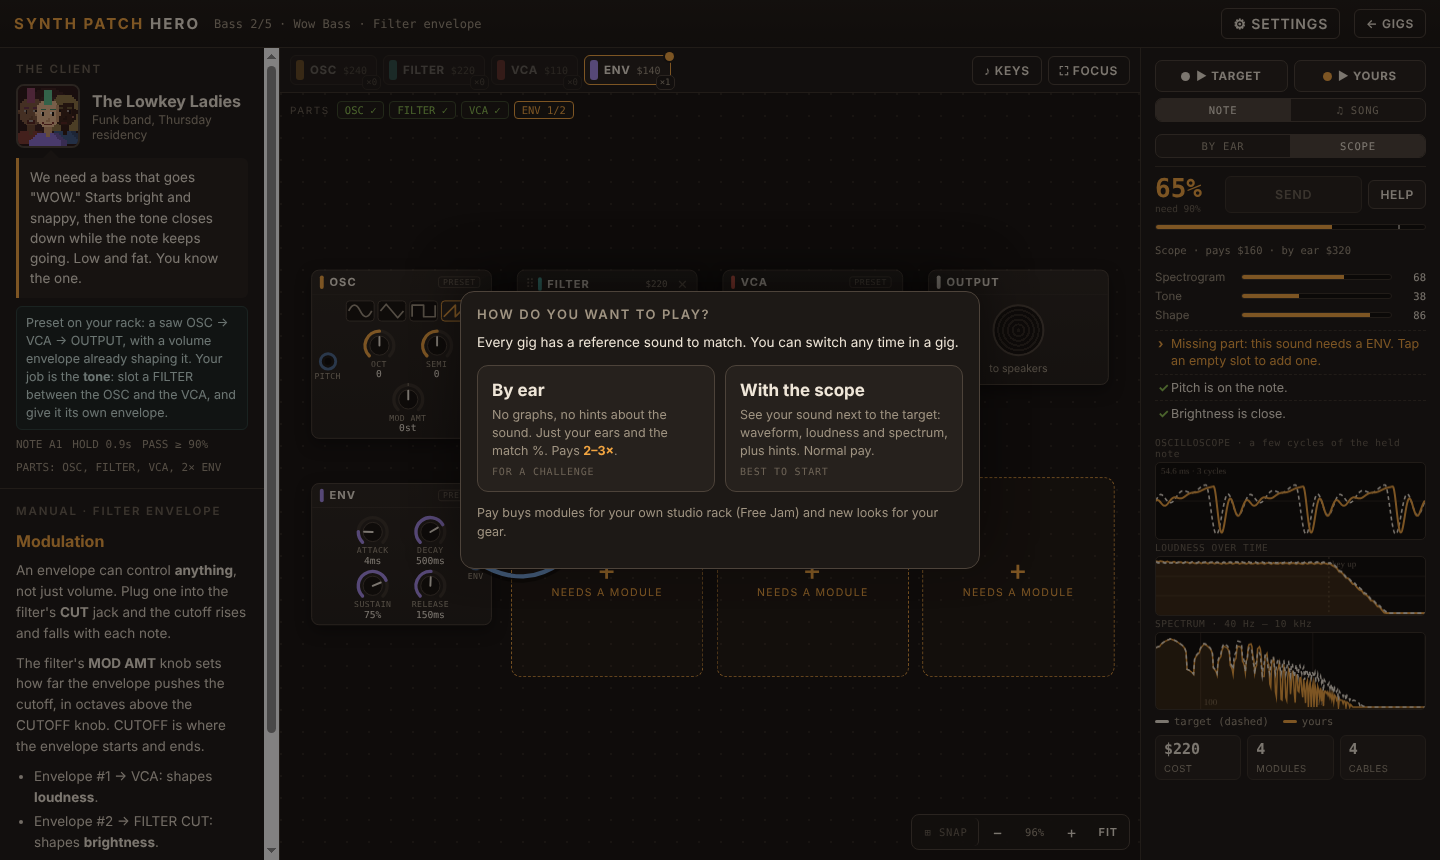
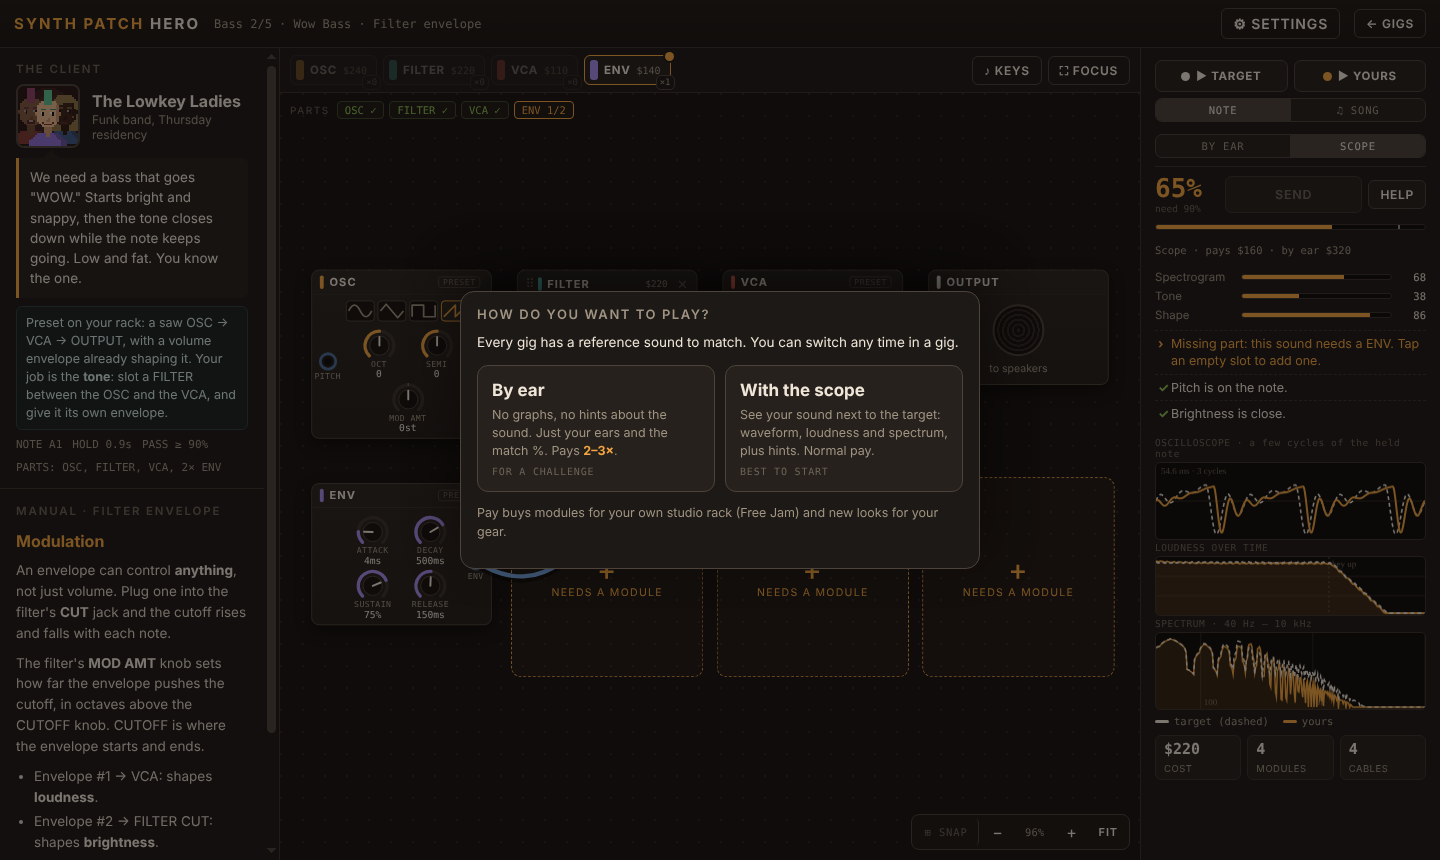
Panel themes re-colour the whole interface, not just the modules
Each theme now sets the app's colour variables (backgrounds, panels, lines,
text tints) plus new ones for the top bar, rack, graph wells and button
presses, which were hard-coded. The browser theme colour and scrollbars
follow along.

Claude-Session: https://claude.ai/code/session_01D5scM1CNbwhd8cCv6p5T59

Changed region(s): [[0.1562, 0.0605, 0.2188, 1.0]]

diff --git a/css/style.css b/css/style.css
@@ -1,5 +1,6 @@
 :root{
   --bg:#13100e; --panel:#1d1916; --panel2:#26211d; --line:#3a322b; --line2:#4d433a;
+  --top1:#1f1a16; --top2:#191512; --well:#0f0c0a; --well2:#16120f; --dot:#2a241f; --boardBg:#161210; --press:#2f2822; --press2:#3a322b;
   --text:#efe6d8; --dim:#a09482; --faint:#6d6356;
   --amber:#f2a541; --teal:#4fb3a9; --red:#e0604f; --violet:#a58be8; --green:#8cc152; --grey:#b5ada3; --cream:#efe6d8;
   --mint:#7fd6a4; --rust:#d9643a; --gold:#d8b04a; --lilac:#c39be8; --cyan:#5fc7c0; --coral:#ef7f7a; --olive:#a6b85c;
@@ -8,11 +9,11 @@
   --mono:'IBM Plex Mono',ui-monospace,monospace; --head:'Chakra Petch',system-ui,sans-serif; --sans:'IBM Plex Sans',system-ui,sans-serif;
   --topH:48px;
 }
-*{box-sizing:border-box}
+*{box-sizing:border-box;scrollbar-color:var(--line2) transparent}
 html,body{margin:0;height:100%;background:var(--bg);color:var(--text);font-family:var(--sans);font-size:14px;overscroll-behavior:none}
 button{font:inherit;color:inherit;cursor:pointer;touch-action:manipulation}
 [hidden]{display:none!important}
-.topbar{height:var(--topH);display:flex;align-items:center;gap:14px;padding:0 14px;border-bottom:1px solid var(--line);background:linear-gradient(#1f1a16,#191512)}
+.topbar{height:var(--topH);display:flex;align-items:center;gap:14px;padding:0 14px;border-bottom:1px solid var(--line);background:linear-gradient(var(--top1),var(--top2))}
 .brand{font-family:var(--head);font-weight:700;letter-spacing:.14em;font-size:15px;color:var(--amber);white-space:nowrap}
 .brand span{color:var(--text)}
 .crumbs{color:var(--dim);font-family:var(--mono);font-size:12px;flex:1;white-space:nowrap;overflow:hidden;text-overflow:ellipsis}
@@ -41,7 +42,7 @@ button{font:inherit;color:inherit;cursor:pointer;touch-action:manipulation}
 .gigWrap{position:relative;display:flex;transition:transform .12s}
 .gigWrap:hover{transform:translateY(-2px)}
 .gigWrap>.gig{flex:1;min-width:0;padding-right:58px}
-.gigPv{position:absolute;top:10px;right:10px;width:38px;height:38px;border-radius:50%;border:1px solid var(--line2);background:#16120f;color:var(--amber);display:flex;align-items:center;justify-content:center;font-size:13px;cursor:pointer;z-index:1;padding:0}
+.gigPv{position:absolute;top:10px;right:10px;width:38px;height:38px;border-radius:50%;border:1px solid var(--line2);background:var(--well2);color:var(--amber);display:flex;align-items:center;justify-content:center;font-size:13px;cursor:pointer;z-index:1;padding:0}
 .gigPv:hover{border-color:var(--amber)}
 .gigPv.lit{background:var(--amber);color:#1a130b;border-color:var(--amber)}
 .gigPv .pvIcon{pointer-events:none;line-height:1}
@@ -140,7 +141,7 @@ button{font:inherit;color:inherit;cursor:pointer;touch-action:manipulation}
 @keyframes blink{50%{opacity:.35}}
 
 .viewport{position:relative;flex:1;min-height:0;overflow:hidden;touch-action:none;cursor:grab;
-  background:radial-gradient(circle at 1px 1px,#2a241f 1px,transparent 1.5px) 0 0/22px 22px,#161210}
+  background:radial-gradient(circle at 1px 1px,var(--dot) 1px,transparent 1.5px) 0 0/22px 22px,var(--boardBg)}
 .viewport.panning{cursor:grabbing}
 #stage{position:absolute;left:0;top:0;transform-origin:0 0}
 #cables{position:absolute;left:0;top:0;width:100%;height:100%;pointer-events:none;z-index:3;overflow:visible}
@@ -199,8 +200,8 @@ button{font:inherit;color:inherit;cursor:pointer;touch-action:manipulation}
 .knob .kl{font-family:var(--mono);font-size:8.5px;color:var(--dim);letter-spacing:.05em;margin-top:-3px}
 .knob .kv{font-family:var(--mono);font-size:10px;color:var(--text);white-space:nowrap}
 .choice{width:100%;display:flex;justify-content:center;gap:3px;padding:0 3px 4px}
-.choice button{flex:1;max-width:32px;height:22px;background:#16120f;border:1px solid var(--line2);border-radius:4px;padding:0;display:flex;align-items:center;justify-content:center;font-family:var(--mono);font-size:9.5px;color:var(--dim)}
-.choice button.on{border-color:var(--sel,var(--amber));color:var(--text);background:#2f2822}
+.choice button{flex:1;max-width:32px;height:22px;background:var(--well2);border:1px solid var(--line2);border-radius:4px;padding:0;display:flex;align-items:center;justify-content:center;font-family:var(--mono);font-size:9.5px;color:var(--dim)}
+.choice button.on{border-color:var(--sel,var(--amber));color:var(--text);background:var(--press)}
 .choice button svg{display:block}
 .choice button.on svg path{stroke:var(--sel,var(--amber))}
 .outBox{padding:4px;text-align:center;color:var(--dim);font-size:11px;line-height:1.3}
@@ -219,7 +220,7 @@ button{font:inherit;color:inherit;cursor:pointer;touch-action:manipulation}
 .pctBox b{font-family:var(--mono);font-weight:600;font-size:26px;color:var(--amber);font-variant-numeric:tabular-nums}
 .pctBox b.ok{color:var(--good)}
 .pctBox small{display:block;font-family:var(--mono);font-size:9.5px;color:var(--faint);margin-top:3px}
-.compare .bar{position:relative;height:6px;background:#0f0c0a;border:1px solid var(--line);border-radius:4px;overflow:hidden;flex:none}
+.compare .bar{position:relative;height:6px;background:var(--well);border:1px solid var(--line);border-radius:4px;overflow:hidden;flex:none}
 .compare .bar i{position:absolute;left:0;top:0;bottom:0;background:var(--amber);transition:width .2s}
 .compare .bar .thr{position:absolute;top:-2px;bottom:-2px;width:2px;background:var(--text);opacity:.6}
 .cmpBody{display:flex;flex-direction:column;gap:8px}
@@ -235,7 +236,7 @@ button{font:inherit;color:inherit;cursor:pointer;touch-action:manipulation}
 .plotTabs{display:none}
 .plotBox{margin-top:2px}
 .plotLbl{font-family:var(--mono);font-size:9.5px;color:var(--faint);margin:0 0 3px;letter-spacing:.06em}
-.plot{width:100%;display:block;background:#0f0c0a;border:1px solid var(--line);border-radius:5px}
+.plot{width:100%;display:block;background:var(--well);border:1px solid var(--line);border-radius:5px}
 .legend{display:flex;gap:14px;font-size:10.5px;color:var(--dim);margin-top:5px;font-family:var(--mono)}
 .legend i{display:inline-block;width:14px;height:3px;vertical-align:middle;margin-right:5px;border-radius:2px}
 .stats{display:grid;grid-template-columns:repeat(3,1fr);gap:6px}
@@ -283,13 +284,13 @@ button{font:inherit;color:inherit;cursor:pointer;touch-action:manipulation}
 .shTitle{flex:1;font-family:var(--head);font-weight:600;letter-spacing:.12em;font-size:13px;color:var(--dim)}
 .shVal{font-family:var(--mono);font-weight:600;font-size:38px;text-align:center;margin:6px 0 8px;color:var(--sel,var(--amber))}
 .shRange{width:100%;-webkit-appearance:none;appearance:none;height:44px;background:transparent;margin:0;touch-action:pan-x}
-.shRange::-webkit-slider-runnable-track{height:10px;border-radius:5px;background:#0f0c0a;border:1px solid var(--line2)}
+.shRange::-webkit-slider-runnable-track{height:10px;border-radius:5px;background:var(--well);border:1px solid var(--line2)}
 .shRange::-webkit-slider-thumb{-webkit-appearance:none;width:34px;height:34px;border-radius:50%;background:var(--sel,var(--amber));margin-top:-13px;border:4px solid #16120f;box-shadow:0 0 0 1px var(--line2)}
-.shRange::-moz-range-track{height:10px;border-radius:5px;background:#0f0c0a;border:1px solid var(--line2)}
+.shRange::-moz-range-track{height:10px;border-radius:5px;background:var(--well);border:1px solid var(--line2)}
 .shRange::-moz-range-thumb{width:28px;height:28px;border-radius:50%;background:var(--sel,var(--amber));border:4px solid #16120f}
 .shBtns{display:grid;grid-template-columns:repeat(4,1fr);gap:8px;margin:10px 0 8px}
 .shBtns button,.shRow button{height:48px;border-radius:10px;border:1px solid var(--line2);background:var(--panel2);font-family:var(--mono);font-size:16px;font-weight:600}
-.shBtns button:active,.shRow button:active{background:#3a322b}
+.shBtns button:active,.shRow button:active{background:var(--press2)}
 .shRow{display:grid;grid-template-columns:1fr 1fr;gap:8px}
 #modal{position:fixed;inset:0;background:rgba(8,6,5,.72);display:flex;align-items:center;justify-content:center;z-index:50;padding:16px}
 .modalCard{width:min(520px,100%);background:var(--panel);border:1px solid var(--line2);border-radius:12px;padding:22px;box-shadow:0 30px 80px rgba(0,0,0,.6)}
@@ -505,14 +506,14 @@ body.focus .work{flex:1}
 .hapSw{position:absolute;width:1px;height:1px;opacity:.02;margin:0;pointer-events:none;overflow:hidden}
 label.btn,label.shBtn{position:relative;display:inline-flex;align-items:center;justify-content:center;cursor:pointer;-webkit-user-select:none;user-select:none}
 .shBtns label.shBtn{height:48px;border-radius:10px;border:1px solid var(--line2);background:var(--panel2);font-family:var(--mono);font-size:16px;font-weight:600}
-.shBtns label.shBtn:active{background:#3a322b}
+.shBtns label.shBtn:active{background:var(--press2)}
 /* iPhone tap targets are <label role=button>; keep them looking like the buttons they replace */
 label[role=button]{cursor:pointer;-webkit-user-select:none;user-select:none;-webkit-tap-highlight-color:transparent}
 label.btn{display:inline-flex;align-items:center;justify-content:center}
 label.btn[aria-disabled="true"],label.palBtn[aria-disabled="true"],label.gig[aria-disabled="true"]{opacity:.42;cursor:not-allowed}
 .btn.primary[aria-disabled="true"]{background:var(--panel2);color:var(--faint);border-color:var(--line);opacity:1}
-.choice label[role=button]{flex:1;max-width:32px;height:22px;background:#16120f;border:1px solid var(--line2);border-radius:4px;display:flex;align-items:center;justify-content:center;font-family:var(--mono);font-size:9.5px;color:var(--dim)}
-.choice label[role=button].on{border-color:var(--sel,var(--amber));color:var(--text);background:#2f2822}
+.choice label[role=button]{flex:1;max-width:32px;height:22px;background:var(--well2);border:1px solid var(--line2);border-radius:4px;display:flex;align-items:center;justify-content:center;font-family:var(--mono);font-size:9.5px;color:var(--dim)}
+.choice label[role=button].on{border-color:var(--sel,var(--amber));color:var(--text);background:var(--press)}
 .choice label[role=button].on svg path{stroke:var(--sel,var(--amber))}
 .knob .kc{display:contents}
 .knob .kl,.knob .kv{display:block}
@@ -774,6 +775,12 @@ body.focus .takeGig{display:block}
 .studioCard .dataNote{margin-top:8px}
 .cheatBox{display:flex;gap:6px;margin:0 0 8px;flex:none} .cheatBox input{flex:1;min-width:0;background:var(--panel2);border:1px solid var(--line2);border-radius:8px;color:var(--text);font-family:var(--mono);font-size:16px;padding:7px 10px}
 @media (max-width:760px){ .studioCard{height:88dvh} .studioGrid{grid-template-columns:repeat(2,1fr)} }
+/* panel themes re-colour the whole interface (surfaces, lines, text tints), and re-skin every module's faceplate below */
+body[data-theme=midnight]{--bg:#0f1114;--panel:#171a1f;--panel2:#1e2228;--line:#2b313a;--line2:#3a4250;--text:#e6ebf2;--dim:#97a2b2;--faint:#626d7b;--top1:#1a1d23;--top2:#14171b;--well:#0b0d10;--well2:#111418;--dot:#232a34;--boardBg:#12151a;--press:#262c35;--press2:#2f3742;background:var(--bg)}
+body[data-theme=walnut]{--bg:#150f0b;--panel:#20170f;--panel2:#2a1f15;--line:#463424;--line2:#5c4430;--text:#f1e4d0;--dim:#b39c80;--faint:#7c6751;--top1:#2e2015;--top2:#22180f;--well:#0f0a07;--well2:#18110b;--dot:#36271b;--boardBg:#1a120c;--press:#3a2a1c;--press2:#4a3524;background:var(--bg)}
+body[data-theme=oxide]{--bg:#111310;--panel:#191c16;--panel2:#20241c;--line:#333a2a;--line2:#454e39;--text:#e8ead8;--dim:#a0a58c;--faint:#6a715b;--top1:#1e2219;--top2:#171a14;--well:#0c0e0a;--well2:#12150f;--dot:#272c20;--boardBg:#141711;--press:#2a3022;--press2:#343c2b;background:var(--bg)}
+body[data-theme=neon]{--bg:#120c18;--panel:#1a1222;--panel2:#22182c;--line:#3a2848;--line2:#4f3662;--text:#f3e8f6;--dim:#b69dc3;--faint:#7c668a;--top1:#23172e;--top2:#1a1122;--well:#0c0711;--well2:#140d1a;--dot:#2e2040;--boardBg:#160f1e;--press:#33244a;--press2:#3f2d58;background:var(--bg)}
+body[data-theme=neon] .topbar{box-shadow:0 1px 0 rgba(224,106,168,.25)} body[data-theme=walnut] .topbar{border-bottom:2px solid #7a4f2c}
 /* panel themes: they re-skin every module's faceplate */
 body[data-theme=midnight] .module{background:linear-gradient(#1f2127,#16181c);border-color:#2c3440} body[data-theme=midnight] .mhead{border-bottom-color:#2a313b}
 body[data-theme=walnut] .module{background:linear-gradient(#28231e,#1f1b17);border-color:#3a3029;border-left:6px solid #7a4f2c;border-right:6px solid #6b4426}

diff --git a/js/studio.js b/js/studio.js
@@ -84,7 +84,8 @@ function payGig(L){
 }
 
 /* ---------- your studio: modules and themes ---------- */
-function applyTheme(){ const t=studio().theme; document.body.dataset.theme=t&&t!=='dusty'?t:''; }
+function applyTheme(){ const t=studio().theme; document.body.dataset.theme=t&&t!=='dusty'?t:'';
+  const m=document.querySelector('meta[name=theme-color]'); if(m) m.content=getComputedStyle(document.body).getPropertyValue('--top2').trim()||'#15110e'; }
 /* small faceplate icons for the studio tiles */
 function modIcon(t){ const m=MT[t], nk=Math.min(4,(m.params||[]).length||1), nj=Math.min(4,(m.ins||[]).length+(m.outs||[]).length||1);
   const knobs=Array.from({length:nk},(_,i)=>{ const x=nk===1?24:10+i*(28/(nk-1)); return `<circle cx="${x}" cy="27" r="4.2" fill="#14110f" stroke="#8a7a66" stroke-width="1"/><line x1="${x}" y1="27" x2="${x}" y2="23.4" stroke="#e9dcc6" stroke-width="1.2"/>`; }).join('');

diff --git a/docs/design.md b/docs/design.md
@@ -47,7 +47,7 @@ Two ways to play every gig, and a reason to care about the money (`js/studio.js`
   - **A fixed-size panel** (playtest 2026-11-27: the themes scrolled off the bottom on desktop). The wallet stays on top; **Modules | Panel themes** are tabs; each tab is a grid of icon tiles that scrolls inside the panel. Module tiles show a mini faceplate in the module's colour; theme tiles show a mini module drawn in that theme.
   - **Secret code:** typing `moogmoney` anywhere (or, on a phone, tapping the wallet five times and entering it) adds exactly enough money to buy everything left. It's stored as `gift` inside the `studio` key, so resetting the studio clears it.
   - **Modules** at their prices ($90–$380, up to 6 of each). Free Jam's rack is exactly what you own: it starts with the dusty basement rack from the story (OSC, FILTER, VCA, ENV).
-  - **Panel themes** re-skin every module in the game: Dusty Basement (free), Midnight $400, Walnut Cheeks $600, Oxide Green $800, Neon Arcade $1,200. They stay dark, so knob labels keep their contrast.
+  - **Panel themes** re-colour the whole interface (backgrounds, panels, lines, the top bar, the rack, graph wells, buttons and the browser's theme colour, via the CSS colour variables) and re-skin every module (playtest 2026-11-27: "would be nice for the themes to apply to more of the interface"). The accent stays amber, because amber is also the OSC's colour. Themes: Dusty Basement (free), Midnight $400, Walnut Cheeks $600, Oxide Green $800, Neon Arcade $1,200. They stay dark, so knob labels keep their contrast.
 - The ledger shows Earned and Wallet; the old flat $85 per gig and the rent counter are gone.
 
 ## Help ladder (js/help.js)
